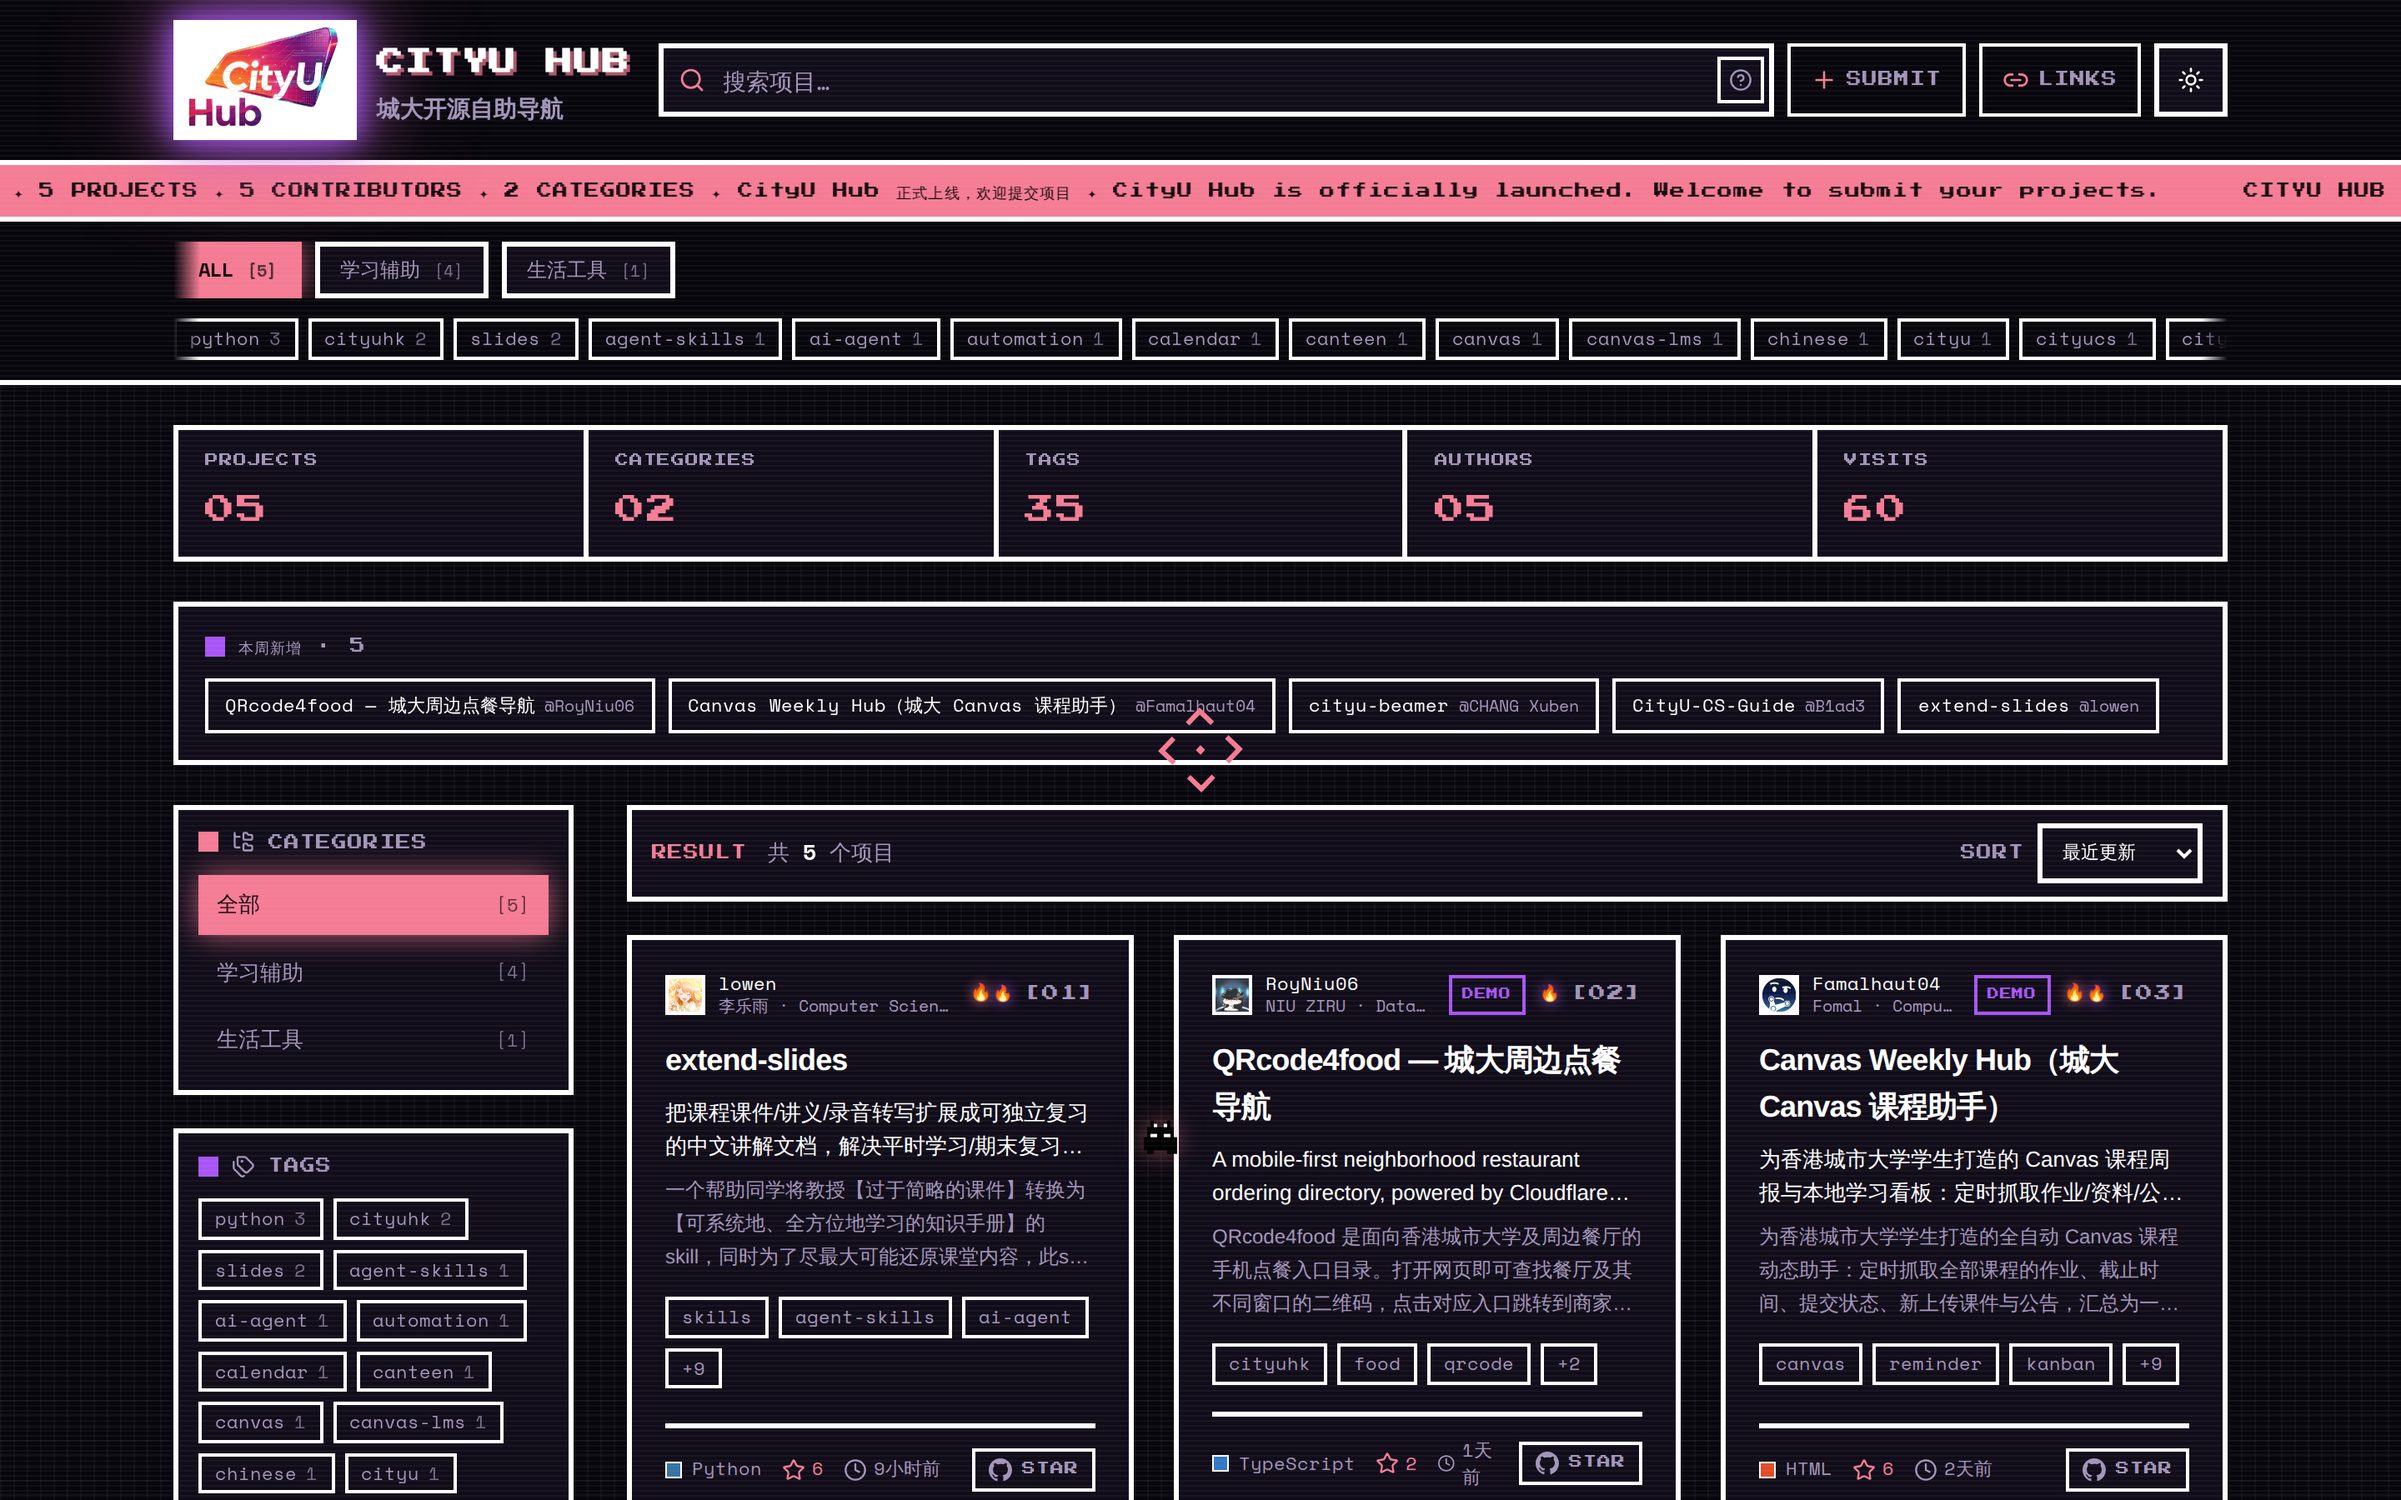
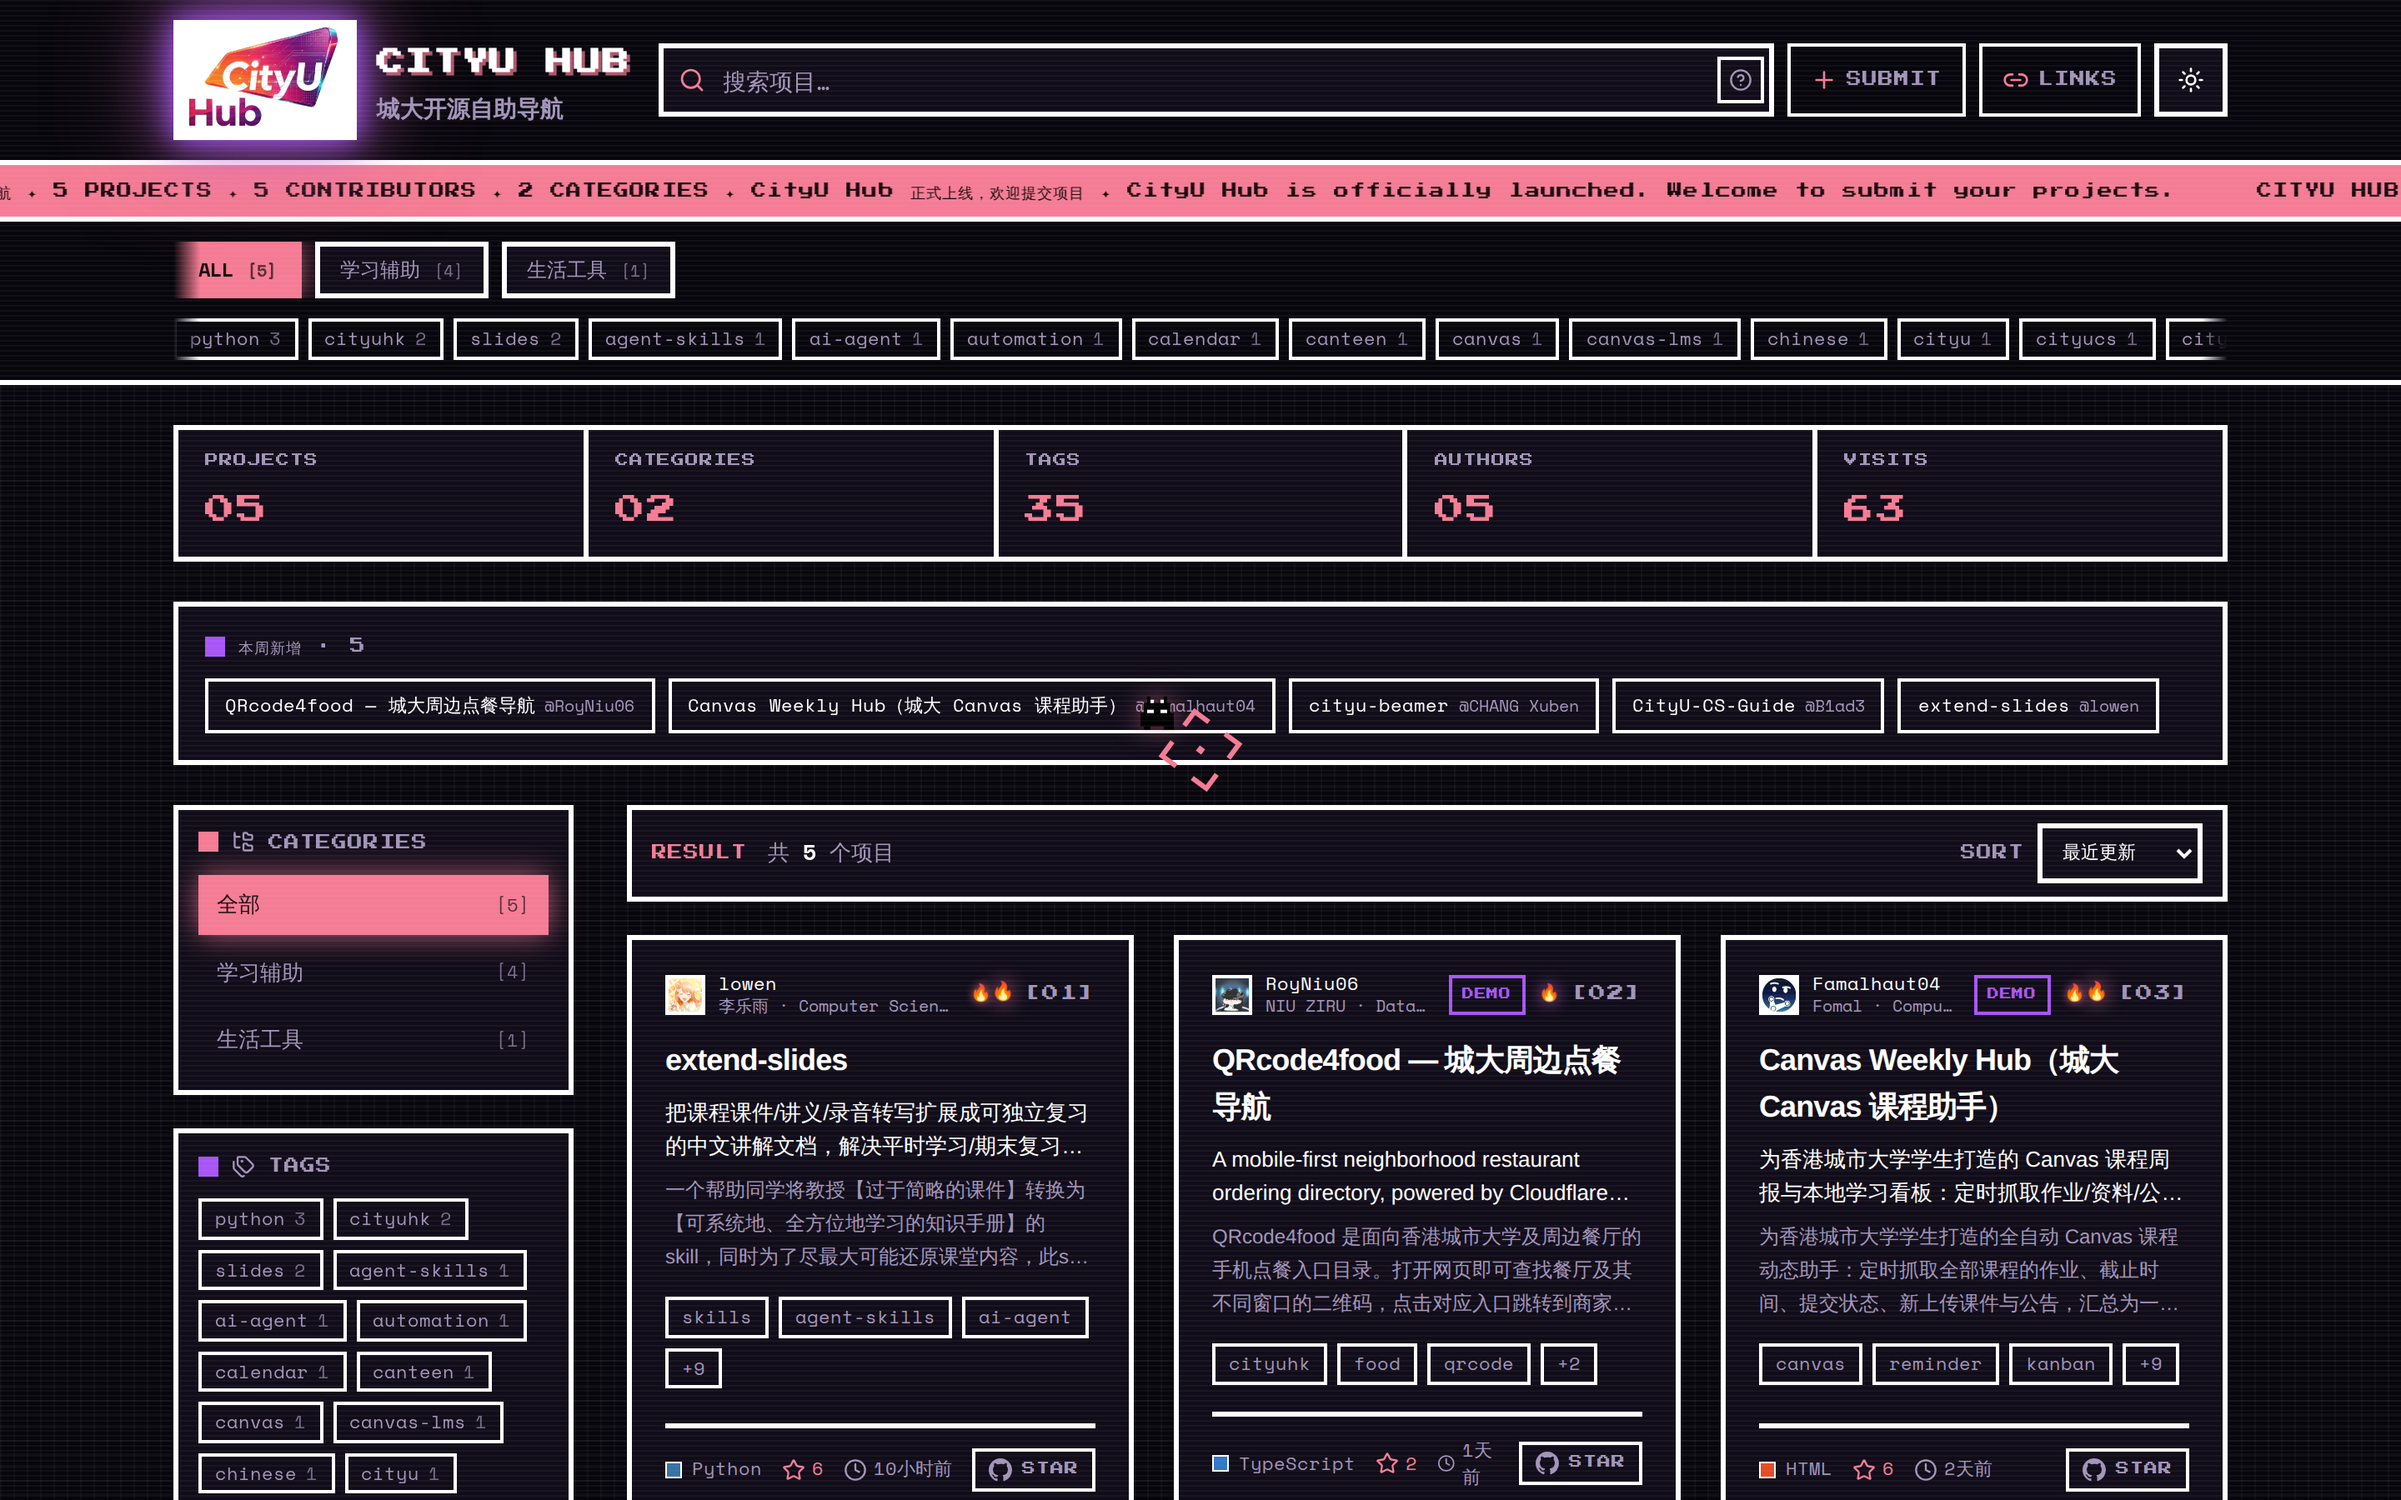
chore(screenshot): 更新站点首页截图 [skip-shot]

diff --git a/README.md b/README.md
@@ -25,7 +25,7 @@
 <!-- screenshot:start -->
 <img src="web/public/screenshot.png" alt="CityU Hub 首页截图 / homepage screenshot" width="920" />
 
-<sub>截图时间 / 截圖時間 / captured at: 2026-09-24 17:57 (UTC+8) · 截图者 / 截圖者 / by: @github-actions[bot]</sub>
+<sub>截图时间 / 截圖時間 / captured at: 2026-09-24 18:17 (UTC+8) · 截图者 / 截圖者 / by: @github-actions[bot]</sub>
 
 **站点一览 · Homepage at a glance**
 <!-- screenshot:end -->
